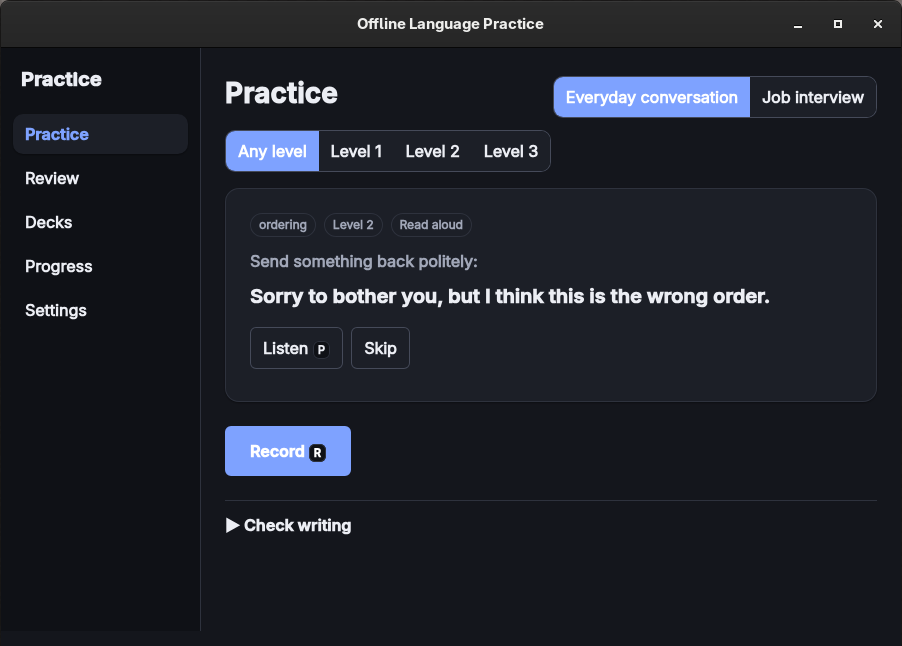
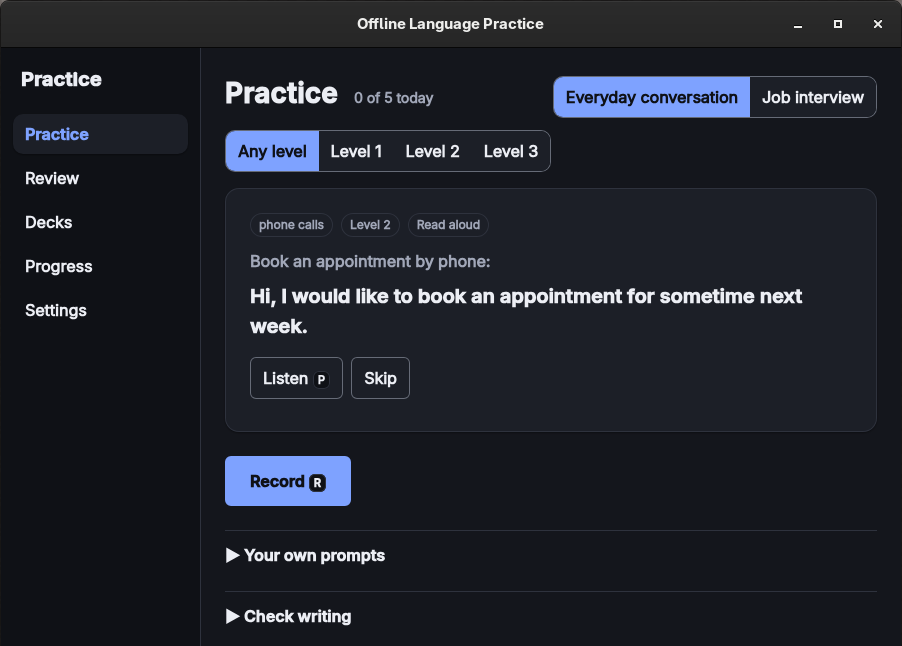
fix(ui): key hints readable inside primary buttons; daily goal beside the title; new screenshot
The key hint inherited the button's on-accent text colour onto its sunken
background: invisible in dark mode after the contrast fix, and poor in light
mode before it. It now sets its own colour. Screenshot retaken with the
daily goal and 'Your own prompts' visible.

diff --git a/src/routes/Practice.tsx b/src/routes/Practice.tsx
@@ -368,10 +368,12 @@ export function Practice(props: { announce: (msg: string) => void }) {
   return (
     <section class="route">
       <header class="route-head">
-        <h1 tabIndex={-1}>Practice</h1>
-        {describeDailyGoal(attemptsToday, dailyGoal) && (
-          <span class="muted daily-goal">{describeDailyGoal(attemptsToday, dailyGoal)}</span>
-        )}
+        <div class="route-title">
+          <h1 tabIndex={-1}>Practice</h1>
+          {describeDailyGoal(attemptsToday, dailyGoal) && (
+            <span class="muted daily-goal">{describeDailyGoal(attemptsToday, dailyGoal)}</span>
+          )}
+        </div>
         <div class="segmented" role="group" aria-label="What to practise">
           {CATEGORIES.map((c) => (
             <button

diff --git a/src/styles/shell.css b/src/styles/shell.css
@@ -159,6 +159,16 @@ label {
   flex-wrap: wrap;
 }
 
+.route-title {
+  display: flex;
+  align-items: baseline;
+  flex-wrap: wrap;
+  gap: var(--space-2) var(--space-4);
+}
+.route-title .daily-goal {
+  margin: 0;
+}
+
 .practice-filters {
   margin: 0 0 var(--space-4);
 }
@@ -578,6 +588,10 @@ kbd {
   border: 1px solid var(--border);
   border-radius: var(--radius-sm);
   background: var(--bg-sunken);
+  /* Not inherited: inside a primary button the text colour is the on-accent
+     one, which is unreadable on this sunken background. --fg on --bg-sunken
+     is checked by scripts/contrast.mjs. */
+  color: var(--fg);
   padding: 1px var(--space-1);
   white-space: nowrap;
 }
